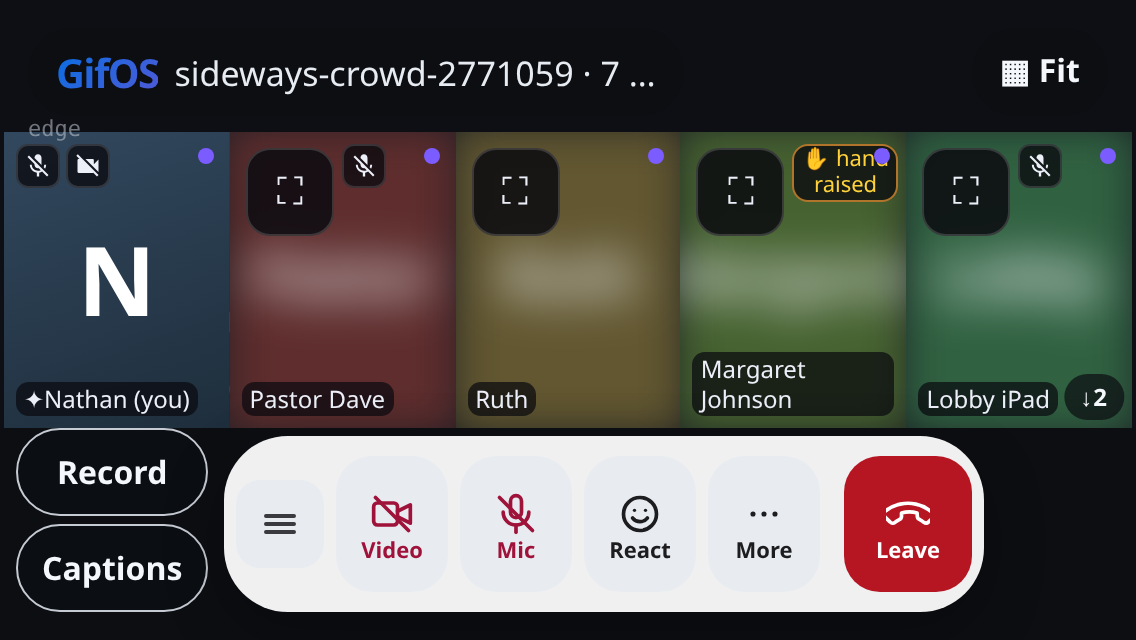
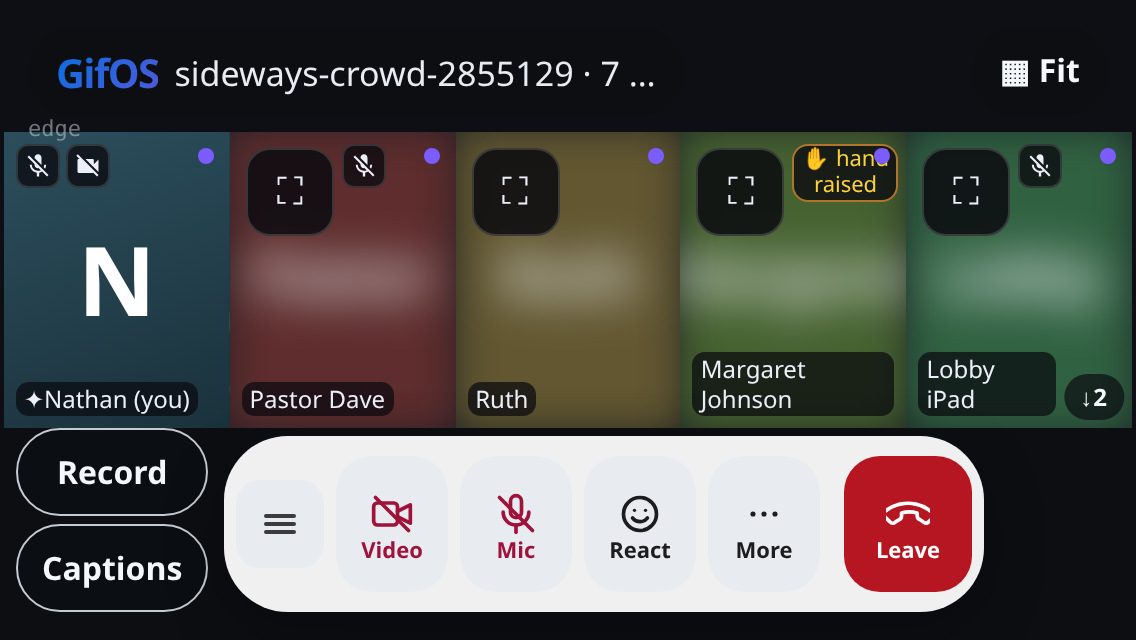
Meet: a long name under the "↓2" hint wraps clear of it on a sideways phone.
The hint hangs in the bottom right corner of the last face in the first
row. That tile now gets .by-hint and its name stops short of the hint's
measured width and wraps ("Fellowship Hall / iPad"), so neither covers
the other. sideways-callstate-beside.js failed 3/3 at 1c24326's parent
code and passes 3/3; test/mobile 85/85 on Chromium; WebKit on jetson2
passes sideways-crowd-chrome and tile-menu-land (2/2).

Changed region(s): [[0.8011, 0.5312, 0.9551, 0.6562], [0.4005, 0.0938, 0.493, 0.1562]]

diff --git a/js/meet-views.js b/js/meet-views.js
@@ -397,6 +397,28 @@
     // Short, in the bottom right corner, where a tile has no name or button.
     if (past && !band) band = { text: '\u2193' + past, label: past + ' more below, scroll down', x: lay.box.x + lay.box.w - 4, y: clipY - 4, end: true };
     placeBand(feed, band);
+    // The hint hangs in the last face's bottom right corner, where a wide
+    // name ("Lobby iPad" on a 109px tile) ran under it. That tile's name
+    // keeps clear of it and wraps instead.
+    let hintEl = null, hintW = 0;
+    if (past && band && band.end) {
+      const hb = (feed.ownerDocument || document).getElementById('stadband');
+      hintW = hb ? hb.offsetWidth : 0;
+      let best = null;
+      for (let i = 0; i < lay.rects.length; i++) {
+        const r = lay.rects[i];
+        if (r.y >= clipY - 1 || r.y + r.h < clipY - 1) continue;
+        if (!best || r.x + r.w > best.x + best.w) best = r;
+      }
+      const t = best && byId[best.id];
+      if (t && t.el && best.x + best.w >= band.x - 1) hintEl = t.el;
+    }
+    for (let i = 0; i < used.length; i++) {
+      const el = used[i];
+      if (!el || !el.classList) continue;
+      el.classList.toggle('by-hint', el === hintEl);
+      if (el === hintEl && el.style && el.style.setProperty) el.style.setProperty('--hintw', hintW + 'px');
+    }
     if (overflows) {
       if (!spacer) {
         spacer = (feed.ownerDocument || document).createElement('div');

diff --git a/run.html b/run.html
@@ -1940,6 +1940,9 @@ requestAnimationFrame(chk);setTimeout(show,1500);})();</script>
     position: absolute; z-index: 4; pointer-events: none; background: rgba(12,14,18,.72);
     color: #f4f7fb; font-size: 12px; font-weight: 700; letter-spacing: .04em;
     padding: 3px 8px; border-radius: 999px; white-space: nowrap; }
+  /* The face under "↓2" keeps its name out of the hint's corner (meet-views). */
+  body.comfy .tile.by-hint .name { max-width: calc(100% - 14px - var(--hintw, 40px)) !important;
+    white-space: normal; overflow-wrap: anywhere; }
   body.comfy .tile[data-tier="bot"] { z-index: 5; border-radius: 12px; overflow: hidden; }
   /* Gallery keeps the stage strip playing (PiP can aim it) but off the mosaic.
      A stage mode adds .show-stage and places that strip itself. */
